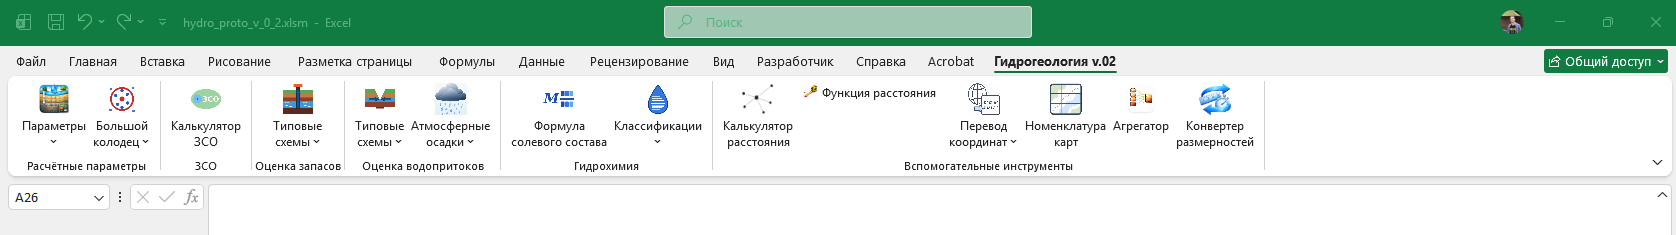
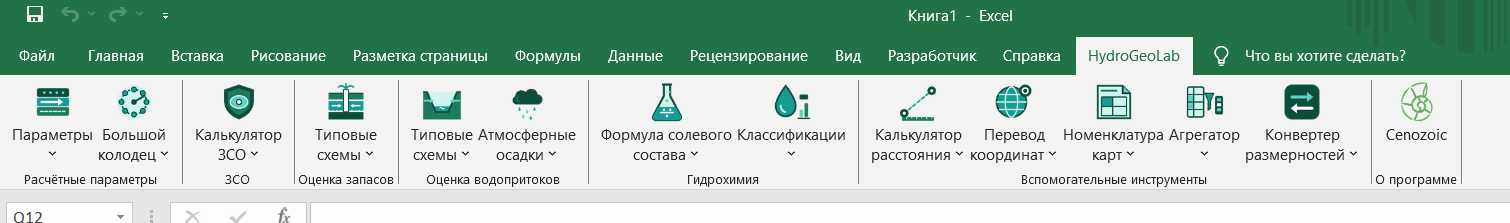
Обновление сайта

diff --git a/docs/start.html b/docs/start.html
@@ -190,7 +190,7 @@
 <main class="docs-main"><nav class="docs-crumb"><a href="../docs/index.html">Справочник</a><span>›</span><b>Как пользоваться</b></nav>
 <header class="fn-head"><h1>Как пользоваться надстройкой</h1>
 <p class="fn-sum">Все инструменты собраны на одной вкладке ленты Excel — <b>«Гидрогеология v.02»</b>. Вкладка разбита на шесть групп кнопок: Расчётные параметры, ЗСО, Оценка запасов, Оценка водопритоков, Гидрохимия и Вспомогательные инструменты.</p></header>
-<div class="shot-frame"><img src="../assets/img/screens/ribbon-overview.png" alt="Вкладка «Гидрогеология v.02» на ленте Excel"></div>
+<div class="shot-frame"><img src="../assets/img/screens/ribbon-overview.png" alt="Вкладка «HydroGeoLab» на ленте Excel"></div>
 
 <section class="d-block"><h2 class="d-h2">Подключение</h2>
 <ol class="steps"><li>Прототип поставляется файлом Excel с макросами (<code>hydro_proto_v_0_2.xlsm</code>). Откройте его и нажмите «Включить содержимое» — на ленте появится вкладка «Гидрогеология v.02».</li>

diff --git a/docsgen/build-pages.js b/docsgen/build-pages.js
@@ -109,7 +109,7 @@ const R1 = '../';
 const start = `${crumbs(R1, [['Как пользоваться']])}
 <header class="fn-head"><h1>Как пользоваться надстройкой</h1>
 <p class="fn-sum">Все инструменты собраны на одной вкладке ленты Excel — <b>«Гидрогеология v.02»</b>. Вкладка разбита на шесть групп кнопок: Расчётные параметры, ЗСО, Оценка запасов, Оценка водопритоков, Гидрохимия и Вспомогательные инструменты.</p></header>
-<div class="shot-frame"><img src="${R1}assets/img/screens/ribbon-overview.png" alt="Вкладка «Гидрогеология v.02» на ленте Excel"></div>
+<div class="shot-frame"><img src="${R1}assets/img/screens/ribbon-overview.png" alt="Вкладка «HydroGeoLab» на ленте Excel"></div>
 
 <section class="d-block"><h2 class="d-h2">Подключение</h2>
 <ol class="steps"><li>Прототип поставляется файлом Excel с макросами (<code>hydro_proto_v_0_2.xlsm</code>). Откройте его и нажмите «Включить содержимое» — на ленте появится вкладка «Гидрогеология v.02».</li>

diff --git a/product.html b/product.html
@@ -56,9 +56,9 @@
 <section class="tight on-paper-dim">
   <div class="container">
     <div class="shot-frame reveal">
-      <img src="assets/img/screens/ribbon-overview.png" alt="Вкладка «Гидрогеология v.02» на ленте Excel — шесть функциональных групп">
+      <img src="assets/img/screens/ribbon-overview.png" alt="Вкладка «HydroGeoLab» на ленте Excel — шесть функциональных групп и «О программе»">
     </div>
-    <p class="shot-caption">Вкладка «Гидрогеология v.02»: Расчётные параметры · ЗСО · Оценка запасов · Оценка водопритоков · Гидрохимия · Вспомогательные инструменты</p>
+    <p class="shot-caption">Вкладка «HydroGeoLab»: Расчётные параметры · ЗСО · Оценка запасов · Оценка водопритоков · Гидрохимия · Вспомогательные инструменты · О программе</p>
   </div>
 </section>
 
